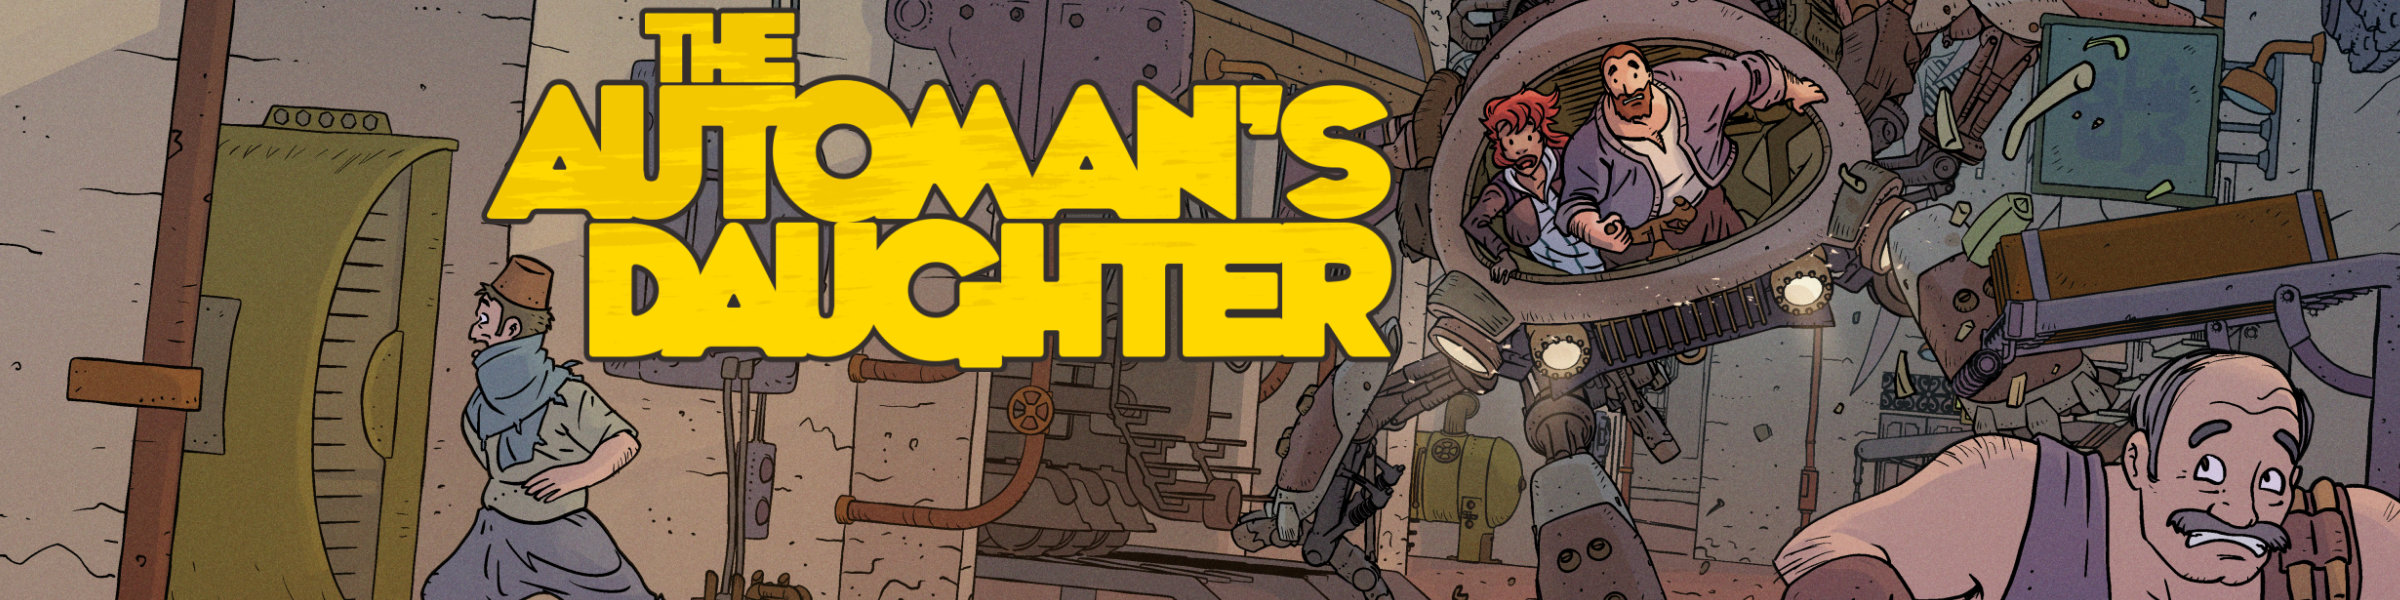
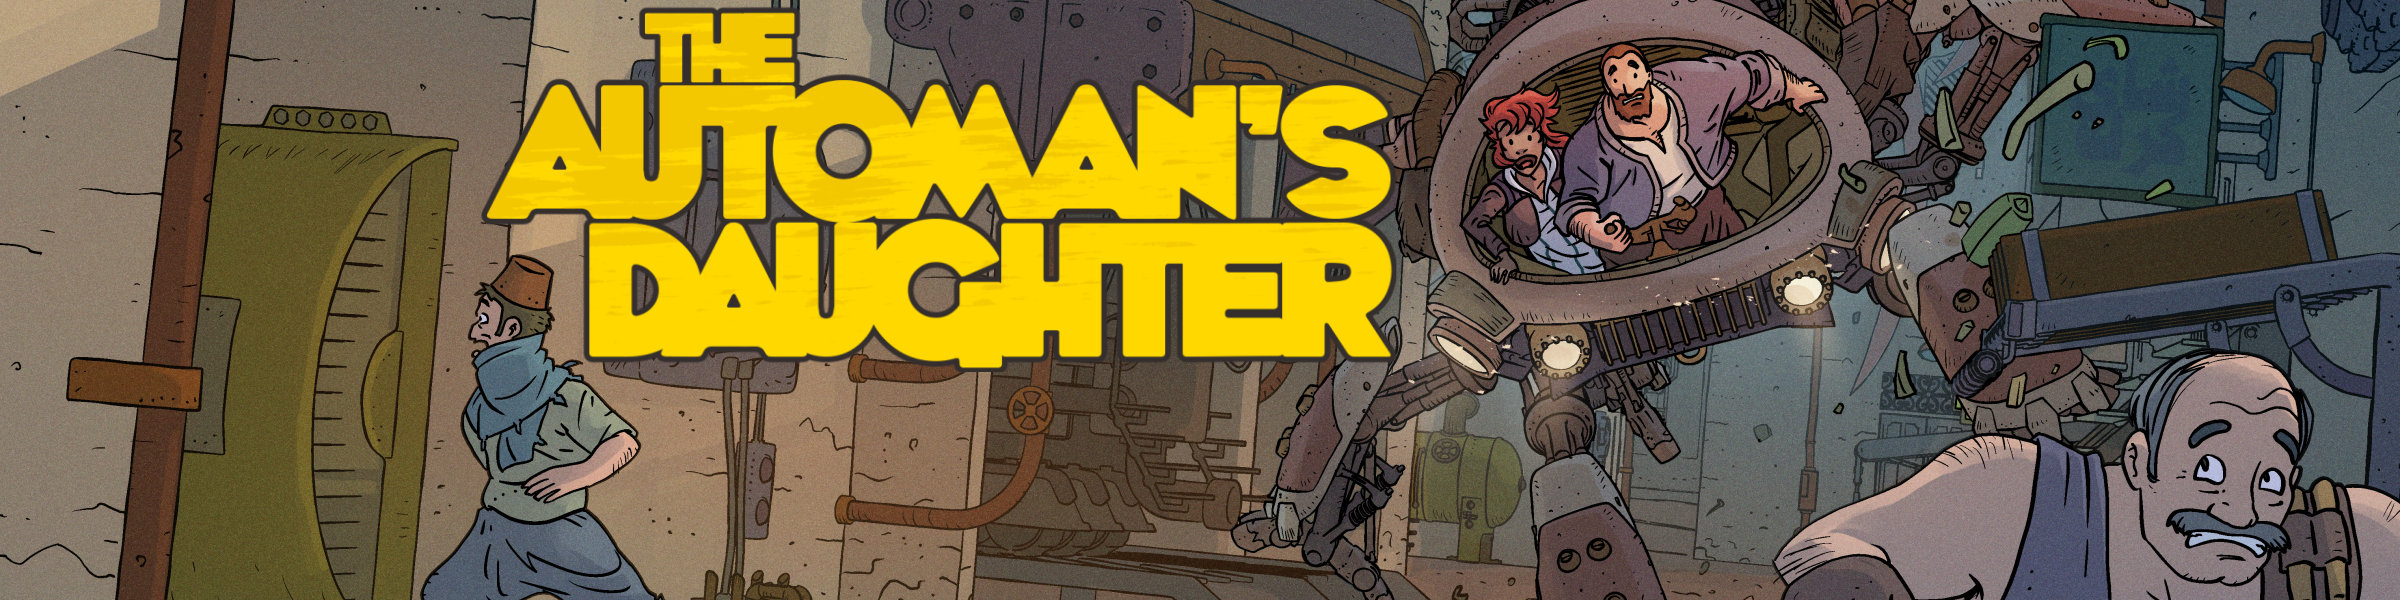
New Links page added.

diff --git a/public/style.css b/public/style.css
@@ -55,6 +55,13 @@ h6 {
   font-weight: 600;
   line-height: 1.1;
   color: var(--color-text-main);
+  
+  & + h2, & + h3, & + h4, & + h5, & + h6 {
+    margin-top: 0.5rem;
+  }
+  & + ul {
+    margin-top: 0.75rem;
+  }
 }
 
 h1 {
@@ -147,6 +154,10 @@ button[data-toggler]::after {
     width: 100%;
     padding: 0 4vw;
     box-sizing: border-box;
+    
+    & > h3 {
+      margin-top: 1rem;
+    }
   }
 }
 

diff --git a/src/links.md b/src/links.md
@@ -1,0 +1,16 @@
+---
+layout: layouts/page.njk
+---
+
+### Links
+
+##### Other things exist! For example, here are things:
+
+* <a href="https://webcomictravelogue.com/" target="_blank">The Webcomic Travelogue</a>
+
+* <a href="https://cartoonist.coop/" target="_blank">The Cartoonist co-op</a>
+
+* <a href="https://www.screentonescast.com/" target="_blank">The Screen Tones podcast</a>
+
+* <a href="https://www.twwronline.com/2023/11/02/how-to-set-up-and-manage-an-rss-reader-to-keep-track-of-webcomics/" target="_blank">How to use RSS feeds to follow comics</a>
+